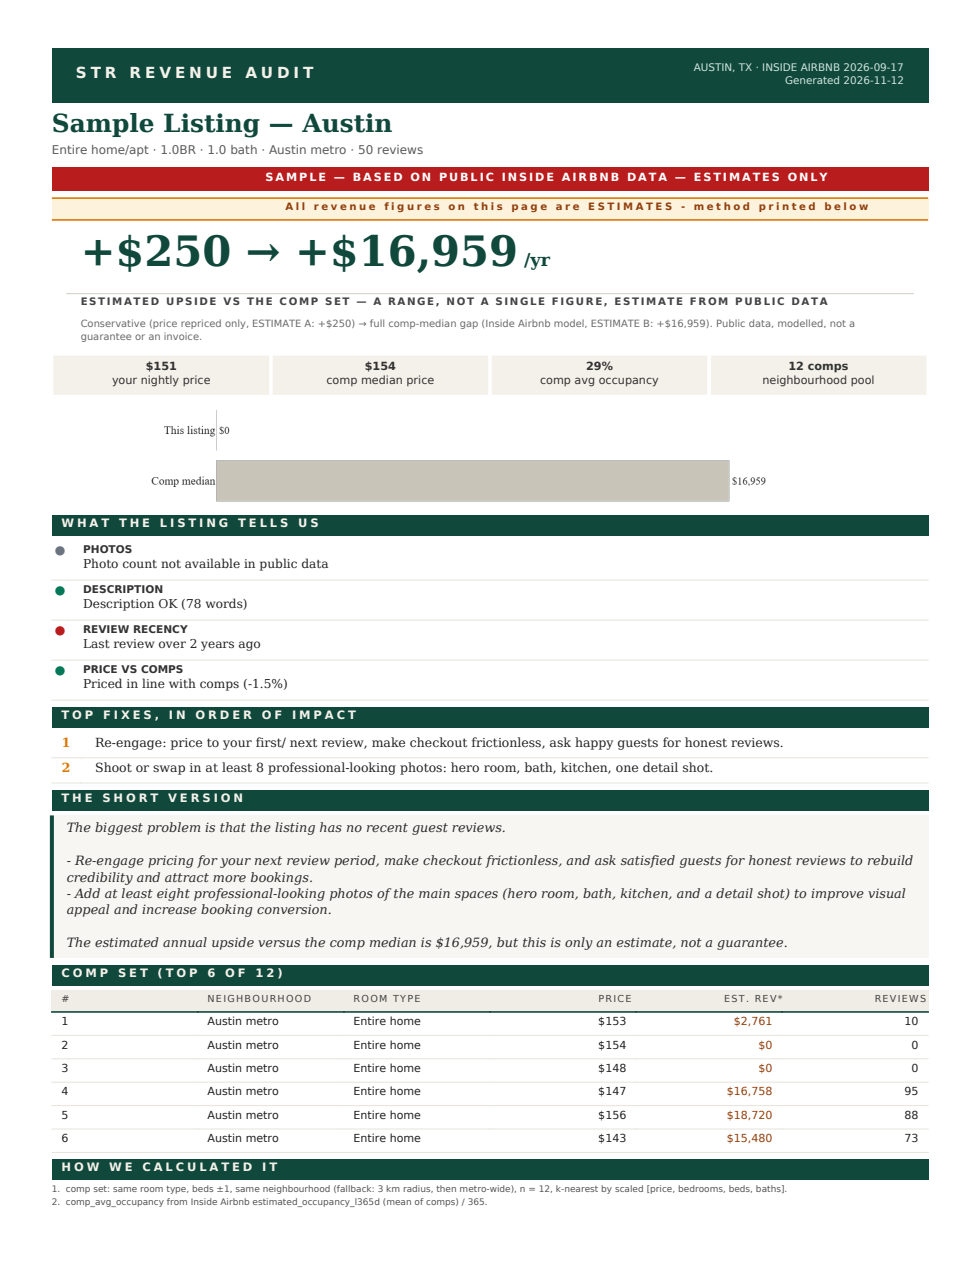
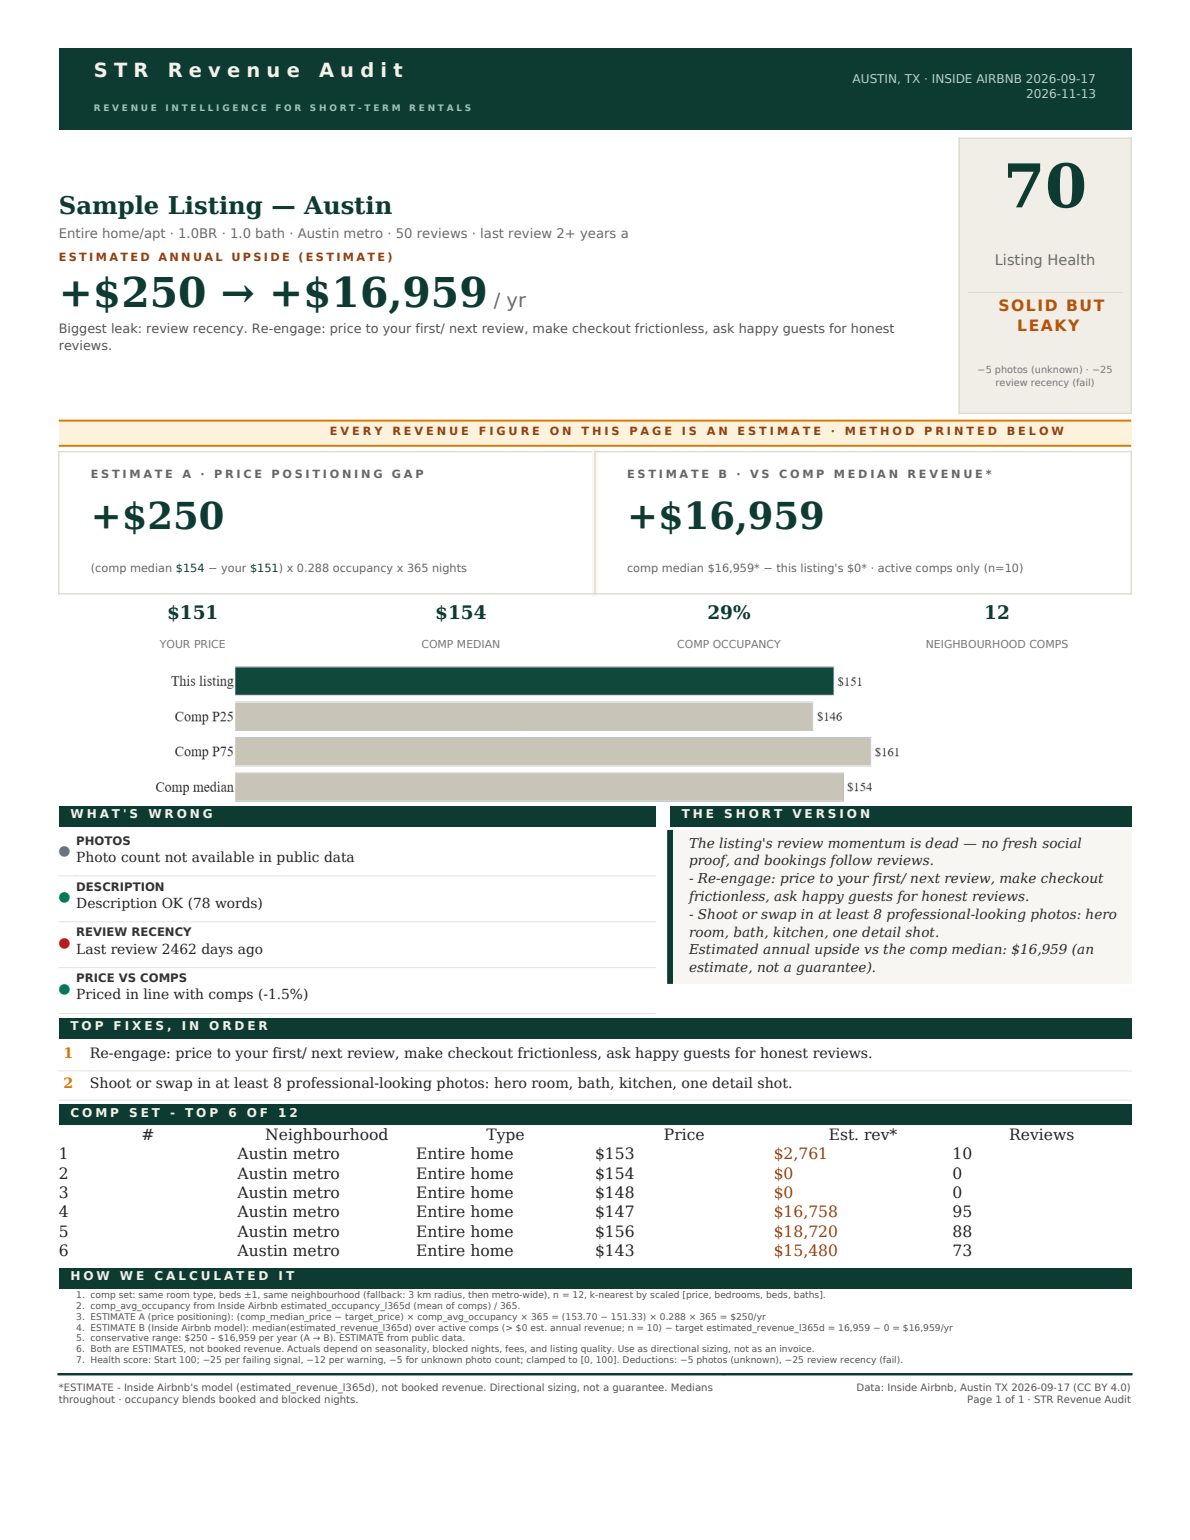
docs+chore: credit health score in CLI, white-label README, refreshed anonymized PDF screenshot

diff --git a/str_audit/audit.py b/str_audit/audit.py
@@ -22,6 +22,7 @@ import pandas as pd
 
 from str_audit.comps import DEFAULT_DATA, PROJECT_ROOT, build_comps, rank_comps
 from str_audit.data import load_listings
+from str_audit.health import health_score
 from str_audit.llm import summarize_audit
 from str_audit.revenue import estimate_gap
 from str_audit.signals import run_signals, top_fixes
@@ -88,6 +89,7 @@ def build_audit(target: pd.Series, comps: pd.DataFrame, pool_how: str,
         },
         "signals": signals,
         "top_fixes": top_fixes(signals),
+        "health": health_score(signals),
         "estimate": estimate,
     }
 
@@ -173,6 +175,9 @@ def _print_report(audit: dict) -> None:
     print("\n-- SIGNALS ---------------------------------------------------------------")
     for s in audit["signals"]:
         print(f"  [{s['status'].upper():7s}] {s['summary']}")
+    h = audit.get("health")
+    if h:
+        print(f"  Health score: {h['score']}/100 ({h['label']})  — formula printed on the PDF")
     print("\n-- ESTIMATED REVENUE GAP (all ESTIMATES, not booked revenue) -------------")
     if n["est_annual_price_gap"] is not None:
         print(f"  Price positioning gap:        ${n['est_annual_price_gap']:+,.0f} / yr")

diff --git a/README.md b/README.md
@@ -162,10 +162,19 @@ The app has three entry points: **Inside Airbnb listing** (by id, e.g. the curat
 `21004527`), **Enter manually** (feeds the photo-count signal — public data has none),
 and **Upload CSV/JSON** (same fields as the manual form; sample template downloadable in-app).
 
-### Branding
-The PDF header and app title say **"STR Revenue Audit"** — rename in
-`templates/audit_report.html` (`.band-title`), `app.py` (`st.set_page_config`, `st.title`),
-and `.streamlit/config.toml`. PDF colours: `#10483c` green, `#d97706` amber, `#f4f1ea` bone.
+### What's on the page (and why a PM reads it)
+
+- **Verdict headline** — the conservative ESTIMATE range (price-positioning gap A → Inside Airbnb model gap B), or an explicit **INSUFFICIENT DATA** callout when the comp set is too thin/dissimilar. Never a bare number.
+- **Listing Health Score** — 0–100 composite of the four signals with the deduction formula printed (e.g. `70 — Solid but leaky; −25 review recency, −5 photos (unknown)`).
+- **Two ESTIMATE cards** (formulas printed) + comp occupancy / median / count chips + a P25/median/P75 price chart vs this listing.
+- **Signals → ranked fixes**, an LLM-written summary in plain English, the comps table, and the full calculation method in fine print.
+
+### Branding / white-label
+Set **`CLIENT_BRAND`** in the environment (Render → service → Environment, or locally) to stamp your client's brand on the masthead:
+
+    CLIENT_BRAND="Acme Property Group" python -m str_audit.report --listing-id 21004527
+
+Masthead becomes "ACME PROPERTY GROUP · POWERED BY STR REVENUE AUDIT" — your client's name on every page you hand over, our method credit in the footer. To rename the product default itself: `templates/audit_report.html` (`.wordmark`), `app.py`, `.streamlit/config.toml`. Palette: deep green `#0d3b31`, bone `#f4f1ea`, amber `#d97706`.
 
 ### PDF engine note
 WeasyPrint (Phase 0 pick) needs GTK/Pango system libraries this Windows machine lacks —
